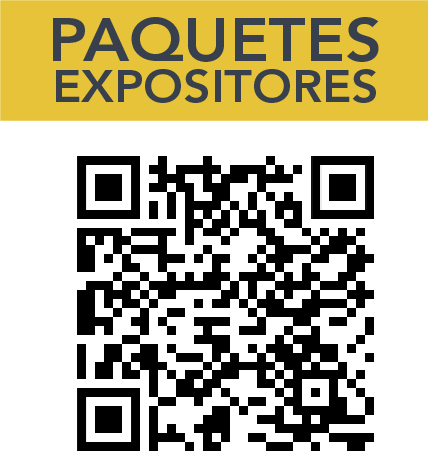
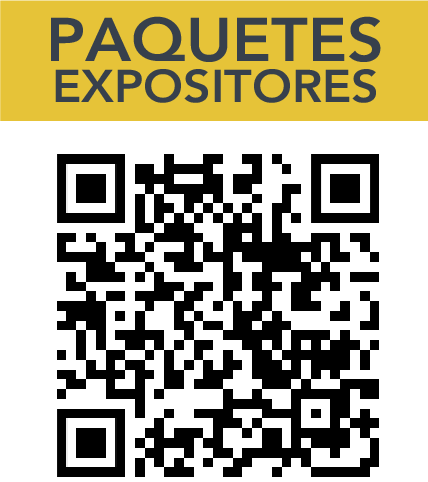
Se realizaron actualizaciones de los QR y se adicionó un boton nuevo

diff --git a/index.html b/index.html
@@ -53,6 +53,9 @@
 				</div>
 				<div class="row" style="margin-top: 20px">
 					<div class="col">
+						<a href="https://forms.gle/AxxFuiVoVSpbxXK58"><img src="img/interesados.png" alt="Girl in a jacket" width="55%"></a>
+					</div>
+					<div class="col">
 						<a href="https://forms.gle/gLqgv84jX9xwj5cCA"><img src="img/quiero-ser-expositor.png" alt="Girl in a jacket" width="70%"></a>
 					</div>
 					<div class="col">
